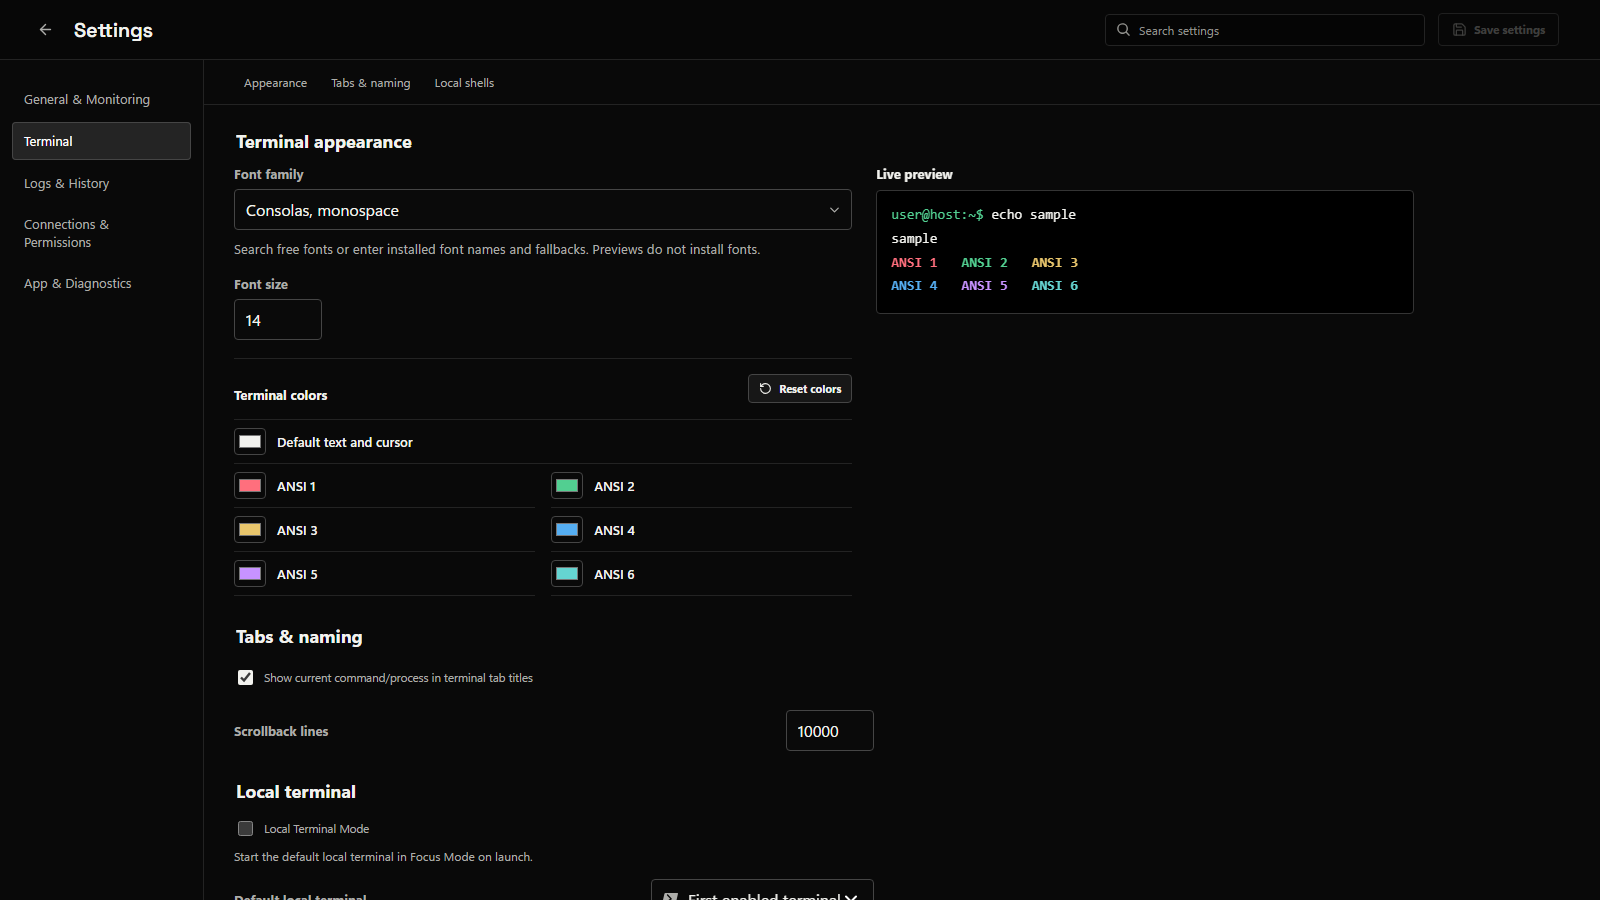
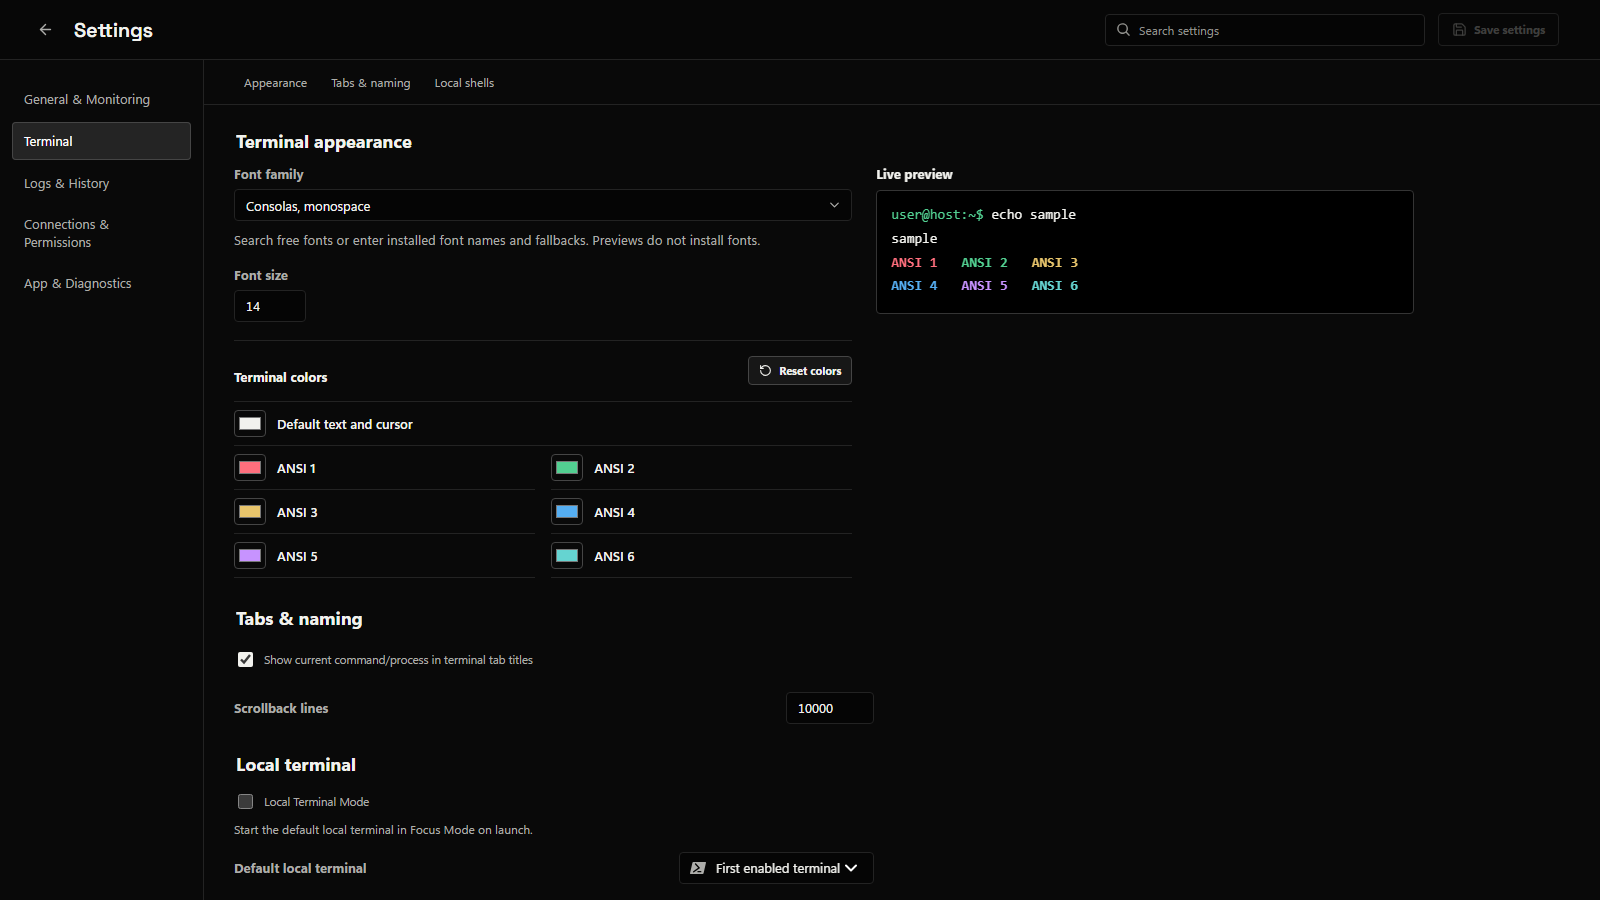
Balance preference fields and restore Git Bash hover colors

diff --git a/src/components/critical-ui.browser.test.tsx b/src/components/critical-ui.browser.test.tsx
@@ -731,6 +731,10 @@ describe("critical UI in Chromium", () => {
     mount(<SettingsFixture />);
     const search = page.getByRole("searchbox", { name: "Search settings" });
     await expect.element(search).toBeVisible();
+    const refresh = page.getByRole("combobox", { name: "Host metrics refresh interval" }).element();
+    expect(refresh.getBoundingClientRect().height).toBe(32);
+    expect(refresh.getBoundingClientRect().width).toBeLessThanOrEqual(200);
+    await page.screenshot({ path: `../../test-results/settings-controls-general-${width}.png` });
     const field = search.element().closest(".search-field")!;
     const icon = field.querySelector("svg")!;
     const bounds = field.getBoundingClientRect();
@@ -748,6 +752,11 @@ describe("critical UI in Chromium", () => {
     if (width > 900) await page.getByRole("button", { name: "Terminal", exact: true }).click();
     else await page.getByRole("combobox", { name: "Settings category" }).selectOptions("terminal");
     await page.getByRole("button", { name: "Local shells", exact: true }).click();
+    for (const name of ["Font size", "Scrollback lines"]) {
+      const input = page.getByRole("spinbutton", { name, exact: true }).element();
+      expect(input.getBoundingClientRect().height).toBe(32);
+      expect(parseFloat(getComputedStyle(input).fontSize)).toBeGreaterThanOrEqual(13);
+    }
     const row = page
       .getByRole("checkbox", { name: "Offer PowerShell 7", exact: true })
       .element()
@@ -760,7 +769,9 @@ describe("critical UI in Chromium", () => {
     expect(getComputedStyle(shell).color).toBe(color);
     const git = container!.querySelector<HTMLImageElement>(".local-shell-icon-git-bash img")!;
     await vi.waitFor(() => expect(git.naturalWidth).toBeGreaterThan(0));
-    expect(getComputedStyle(git).filter).toBe("none");
+    expect(getComputedStyle(git).filter).toBe("grayscale(1) brightness(0.85)");
+    await userEvent.hover(git.closest("label")!);
+    expect(getComputedStyle(git).filter).toBe("grayscale(1) brightness(0.85)");
     const select = page.getByRole("combobox", { name: "Default local terminal" }).element();
     const embedded = select
       .parentElement!.querySelector(".local-shell-icon")!
@@ -769,6 +780,13 @@ describe("critical UI in Chromium", () => {
     expect(embedded.right).toBeLessThan(select.getBoundingClientRect().right - 20);
     expect(container!.scrollWidth).toBeLessThanOrEqual(width);
     await page.screenshot({ path: `../../test-results/search-shell-polish-${width}.png` });
+    if (width > 900)
+      await page.getByRole("button", { name: "Logs & History", exact: true }).click();
+    else await page.getByRole("combobox", { name: "Settings category" }).selectOptions("logs");
+    const tail = page.getByRole("combobox", { name: "Default log tail" }).element();
+    expect(tail.getBoundingClientRect().height).toBe(32);
+    expect(parseFloat(getComputedStyle(tail).fontSize)).toBeGreaterThanOrEqual(13);
+    await page.screenshot({ path: `../../test-results/settings-controls-logs-${width}.png` });
   });
 
   it.each([768, 960, 1600])(

diff --git a/src/styles.css b/src/styles.css
@@ -767,7 +767,7 @@ code,
 }
 .settings-form .host-metrics-options {
   display: grid;
-  grid-template-columns: minmax(0, 1fr) minmax(200px, 260px);
+  grid-template-columns: minmax(0, 1fr) minmax(160px, 200px);
   align-items: center;
   gap: 16px;
   padding: 0;
@@ -1807,6 +1807,12 @@ code,
 
 .local-shell-icon {
   position: relative;
+  --shell-artwork-filter: grayscale(1) brightness(0.85);
+}
+
+.local-shell-icon > img {
+  filter: var(--shell-artwork-filter);
+  transition: filter var(--motion-fast) var(--ease);
 }
 
 .local-shell-icon.local-shell-mark {
@@ -5952,7 +5958,38 @@ dd {
 
 .settings-form input[type="number"] {
   width: 88px;
+  font-variant-numeric: tabular-nums;
 }
+
+.terminal-appearance-controls input[type="number"] {
+  width: 72px;
+}
+
+.settings-form input:not([type="checkbox"], [type="color"]),
+.settings-form select,
+.settings-category-select select {
+  min-height: 32px;
+  height: 32px;
+  border-color: var(--border-subtle);
+  background-color: var(--surface-sunken);
+  padding-block: 5px;
+  font-size: 13px;
+  line-height: 20px;
+}
+
+.settings-form input:not([type="checkbox"], [type="color"]):hover:not(:disabled),
+.settings-form select:hover:not(:disabled),
+.settings-category-select select:hover:not(:disabled) {
+  border-color: var(--border-strong);
+}
+
+.settings-form input:not([type="checkbox"], [type="color"]):focus-visible,
+.settings-form select:focus-visible,
+.settings-category-select select:focus-visible {
+  border-color: var(--text-muted);
+  box-shadow: none;
+}
+
 .settings-form select {
   max-width: 320px;
 }
@@ -7332,6 +7369,7 @@ kbd {
 .command-item:focus-visible .identity-mark,
 .command-item.active .identity-mark {
   color: var(--identity);
+  --shell-artwork-filter: none;
 }
 
 /* ==========================================================================

diff --git a/src/app-journeys.browser.test.tsx b/src/app-journeys.browser.test.tsx
@@ -389,7 +389,7 @@ describe("complete app journeys with typed IPC fixtures", () => {
     },
   );
 
-  it("keeps shell identity across layouts and preserves the full-color Git Bash artwork", async () => {
+  it("reveals the Git Bash artwork color on interaction across layouts", async () => {
     await page.viewport(960, 640);
     overrides.set("list_local_shells", () => ({
       profiles: [
@@ -435,10 +435,11 @@ describe("complete app journeys with typed IPC fixtures", () => {
       name: "New local terminal: Git Bash",
       exact: true,
     });
-    await userEvent.hover(splitChoice.element());
     const gitLogo = splitChoice.element().querySelector<HTMLImageElement>(".local-shell-mark img")!;
     await vi.waitFor(() => expect(gitLogo.naturalWidth).toBeGreaterThan(0));
-    expect(getComputedStyle(gitLogo).filter).toBe("none");
+    expect(getComputedStyle(gitLogo).filter).toBe("grayscale(1) brightness(0.85)");
+    await userEvent.hover(splitChoice.element());
+    await expect.poll(() => getComputedStyle(gitLogo).filter).toBe("none");
     await splitChoice.click();
     const pane = page
       .getByRole("navigation", { name: /Terminals in .* group/ })
@@ -470,7 +471,7 @@ describe("complete app journeys with typed IPC fixtures", () => {
     await userEvent.hover(git.element());
     const overflowLogo = git.element().querySelector<HTMLImageElement>(".local-shell-icon img")!;
     expect(overflowLogo.src).toBe(gitLogo.src);
-    expect(getComputedStyle(overflowLogo).filter).toBe("none");
+    await expect.poll(() => getComputedStyle(overflowLogo).filter).toBe("none");
   });
 
   it("shows shell identities and elevation in the command palette and Settings", async () => {

diff --git a/src/components/LocalShellIcon.tsx b/src/components/LocalShellIcon.tsx
@@ -5,7 +5,7 @@ import gitBashIcon from "../assets/shells/git-for-windows.ico";
 // Git Bash: git-for-windows/build-extra, portable/root/usr/share/git/git-for-windows.ico.
 // PowerShell: PowerShell/PowerShell assets/ps_black_64.svg.
 // Trademarks belong to their owners.
-// Vector marks inherit identity colors; Git Bash retains the upstream artwork.
+// Vector marks inherit identity colors; Git Bash uses the shared artwork filter.
 export function LocalShellIcon({
   kind,
   elevated = false,

diff --git a/DESIGN.md b/DESIGN.md
@@ -20,15 +20,16 @@ guardrails, not every choice described below.
   color signals success, warning, or failure. User-selected tag colors identify
   connections; they do not imply health. OS and shell marks may reveal their
   brand color on a hovered or selected tab or host row to identify the target;
-  the color is identity, never health. Git Bash keeps the upstream Git for Windows
-  icon in full color at rest and during interaction. Terminal ANSI
+  the color is identity, never health. Git Bash uses the upstream Git for Windows
+  icon, gray at rest and in color on hover, keyboard focus, or selection. Terminal ANSI
   colors belong to host output and remain separate from the application palette.
   Read-only configuration and command blocks may use a small syntax palette for
   sections, keys, strings, paths, and variables. Keep those colors inside code;
   they describe syntax and do not signal service health.
   PowerShell logos reveal blue on hover, keyboard focus, or selection outside
   Settings. Settings keeps shell marks steady while the whole preference row
-  receives a quiet hover fill. Command Prompt and the generic local-terminal
+  receives a quiet hover fill. Git Bash also stays gray throughout Settings.
+  Command Prompt and the generic local-terminal
   launcher use muted gray at rest and white on hover, keyboard focus, or selection.
   Use each local shell's own mark in workspace tabs, launch and split menus,
   overflow lists, the command palette, and Settings. Administrator shells keep
@@ -597,7 +598,8 @@ for its form and keep Back and Save visible while its body scrolls.
 Use a slim category rail on wide windows and a category selector at narrow widths.
 Search across categories by setting names and keywords, with category context on
 results. Preserve drafts and useful category scroll positions. Keep numeric fields
-compact and save explicitly, with dirty, saving, saved, and error feedback.
+compact, with readable values in short, quietly bordered inputs and selectors.
+Save explicitly, with dirty, saving, saved, and error feedback.
 Settings uses readable section titles. Group
 terminal font, size, and color controls with one shared live preview that stays visible while those controls scroll. Keep terminal
 behavior separate from appearance and local shell availability.
